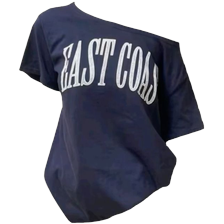
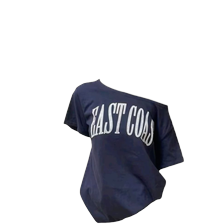
Update accessory recommendation and outfit suggestions

diff --git a/frontend/src/services/recommendationApi.js b/frontend/src/services/recommendationApi.js
@@ -1,10 +1,10 @@
 import { API_BASE_URL } from "../config";
 
-export async function getAccessoryRecommendations(formality, garments) {
+export async function getAccessoryRecommendations(formality, garments, season) {
   const response = await fetch(`${API_BASE_URL}/recommend/accessories`, {
     method: "POST",
     headers: { "Content-Type": "application/json" },
-    body: JSON.stringify({ formality, garments }),
+    body: JSON.stringify({ formality, season, garments }),
   });
 
   if (!response.ok) {
@@ -12,15 +12,6 @@ export async function getAccessoryRecommendations(formality, garments) {
   }
 
   return response.json();
-}
-
-export async function fetchWardrobeGarments() {
-  const response = await fetch(`${API_BASE_URL}/scanning/garments`);
-  if (!response.ok) {
-    throw new Error(`Failed to fetch wardrobe: ${response.status}`);
-  }
-  const data = await response.json();
-  return data.garments || [];
 }
 
 const OCCASION_MAP = {

diff --git a/frontend/src/pages/OutfitSuggestions.jsx b/frontend/src/pages/OutfitSuggestions.jsx
@@ -18,7 +18,7 @@ function OutfitSuggestions({ onBack }) {
       setIsLoading(true);
       setError(null);
       try {
-        const data = await getOutfitSuggestions(occasion, user?.id, 5);
+        const data = await getOutfitSuggestions(occasion, user?.id);
         if (!isCancelled) setSuggestions(data.suggestions);
       } catch (err) {
         if (!isCancelled) setError(err.message);

diff --git a/backend/app/recommendation.py b/backend/app/recommendation.py
@@ -13,20 +13,58 @@ ACCESSORY_TYPES = {
         "footwear": "Loafers",
         "jewelry": "Simple Earrings",
         "watch": "Analog Watch",
+        "belt": "Leather Belt",
     },
     "Formal": {
         "bag": "Structured Handbag",
         "footwear": "Oxford Shoes",
         "jewelry": "Statement Jewelry",
         "watch": "Elegant Watch",
+        "belt": "Formal Belt",
     },
 }
+
+FOOTWEAR_BY_SEASON = {
+    "Casual": {
+        "Summer": "Sandals",
+        "Winter": "Boots",
+        "Spring": "Sneakers",
+        "Autumn": "Sneakers",
+    },
+    "Smart Casual": {
+        "Summer": "Low Heels",
+        "Winter": "Ankle Boots",
+        "Spring": "Loafers",
+        "Autumn": "Loafers",
+    },
+    "Formal": {
+        "Summer": "Heels",
+        "Winter": "Knee-High Boots",
+        "Spring": "Oxford Shoes",
+        "Autumn": "Oxford Shoes",
+    },
+}
+
+# Practical items (bag/footwear/belt/hat) are basics - they vary by outfit
+# brightness rather than hue, and stay consistent with each other within
+# one suggestion. Statement items (jewelry/watch) follow the color-harmony
+# hue logic instead.
+PRACTICAL_SLOTS = {"bag", "footwear", "belt", "hat"}
+STATEMENT_SLOTS = {"jewelry", "watch"}
 
 TONE_PREFIX = {
     "warm": "Gold",
     "cool": "Silver",
     "neutral": "Black",
     "accent": "Emerald",
+}
+
+# Light outfits get grounded with a dark neutral, dark outfits get lifted
+# with a light neutral, mid-tone outfits get an earthy brown.
+PRACTICAL_TONE_BY_BRIGHTNESS = {
+    "light_outfit": "Black",
+    "mid_outfit": "Brown",
+    "dark_outfit": "White",
 }
 
 
@@ -101,19 +139,39 @@ def get_accessory_tone(outfit_classification: str) -> str:
     }[outfit_classification]
 
 
+def get_average_brightness(garments: list[dict]) -> float:
+    """Average V (value/brightness) across all outfit colors, 0.0-1.0."""
+    hsv_values = collect_hsv(garments)
+    if not hsv_values:
+        return 0.5
+    return sum(v for h, s, v in hsv_values) / len(hsv_values)
+
+
+def classify_outfit_brightness(avg_value: float) -> str:
+    if avg_value >= 0.65:
+        return "light_outfit"
+    elif avg_value >= 0.35:
+        return "mid_outfit"
+    else:
+        return "dark_outfit"
+
+
 def check_wardrobe_for_accessory(slot: str, db=None) -> dict | None:
     """return a wardrobe accessory if accessory categories exist later"""
     return None
 
 
-def recommend_accessories(formality: str, garments: list[dict]) -> list[dict]:
+def recommend_accessories(formality: str, garments: list[dict], season: str | None = None) -> list[dict]:
     accessory_types = ACCESSORY_TYPES.get(formality)
     if accessory_types is None:
         raise ValueError(f"Unknown formality level: {formality}")
 
     outfit_classification = classify_outfit_tone(garments)
-    tone = get_accessory_tone(outfit_classification)
-    tone_prefix = TONE_PREFIX[tone]
+    statement_tone = get_accessory_tone(outfit_classification)
+
+    avg_brightness = get_average_brightness(garments)
+    brightness_class = classify_outfit_brightness(avg_brightness)
+    practical_tone_prefix = PRACTICAL_TONE_BY_BRIGHTNESS[brightness_class]
 
     results = []
     for slot, base_type in accessory_types.items():
@@ -127,13 +185,29 @@ def recommend_accessories(formality: str, garments: list[dict]) -> list[dict]:
                 "reason": f"You already own a compatible {slot} item",
                 "confidence": 100,
             })
+            continue
+
+        # Footwear varies by season, if season is known
+        if slot == "footwear" and season and season in FOOTWEAR_BY_SEASON.get(formality, {}):
+            base_type = FOOTWEAR_BY_SEASON[formality][season]
+
+        if slot in PRACTICAL_SLOTS:
+            tone_prefix = practical_tone_prefix
+            season_note = f" for {season}" if slot == "footwear" and season else ""
+            reason = (
+                f"{slot.capitalize()} in {practical_tone_prefix.lower()} - a versatile neutral "
+                f"that suits the outfit's {brightness_class.replace('_', ' ')} tone{season_note}"
+            )
         else:
-            results.append({
-                "slot": slot,
-                "name": f"{tone_prefix} {base_type}",
-                "source": "catalog",
-                "reason": f"Outfit is {outfit_classification} - a {tone}-toned {slot} complements it",
-                "confidence": 75,
-            })
+            tone_prefix = TONE_PREFIX[statement_tone]
+            reason = f"Outfit is {outfit_classification} - a {statement_tone}-toned {slot} complements it"
+
+        results.append({
+            "slot": slot,
+            "name": f"{tone_prefix} {base_type}",
+            "source": "catalog",
+            "reason": reason,
+            "confidence": 75,
+        })
 
     return results

diff --git a/backend/app/recommendation_router.py b/backend/app/recommendation_router.py
@@ -17,12 +17,14 @@ class OutfitInput(BaseModel):
     formality: str
     garments: list[GarmentInput] = Field(default_factory=list)
 
+class OutfitInput(BaseModel):
+    formality: str
+    season: str | None = None
+    garments: list[GarmentInput] = []
+
 
 @router.post("/accessories")
 def get_accessory_recommendations(outfit: OutfitInput):
     garments_as_dicts = [g.model_dump() for g in outfit.garments]
-    try:
-        accessories = recommend_accessories(outfit.formality, garments_as_dicts)
-    except ValueError as exc:
-        raise HTTPException(status_code=400, detail=str(exc)) from exc
+    accessories = recommend_accessories(outfit.formality, garments_as_dicts, outfit.season)
     return {"accessories": accessories}
